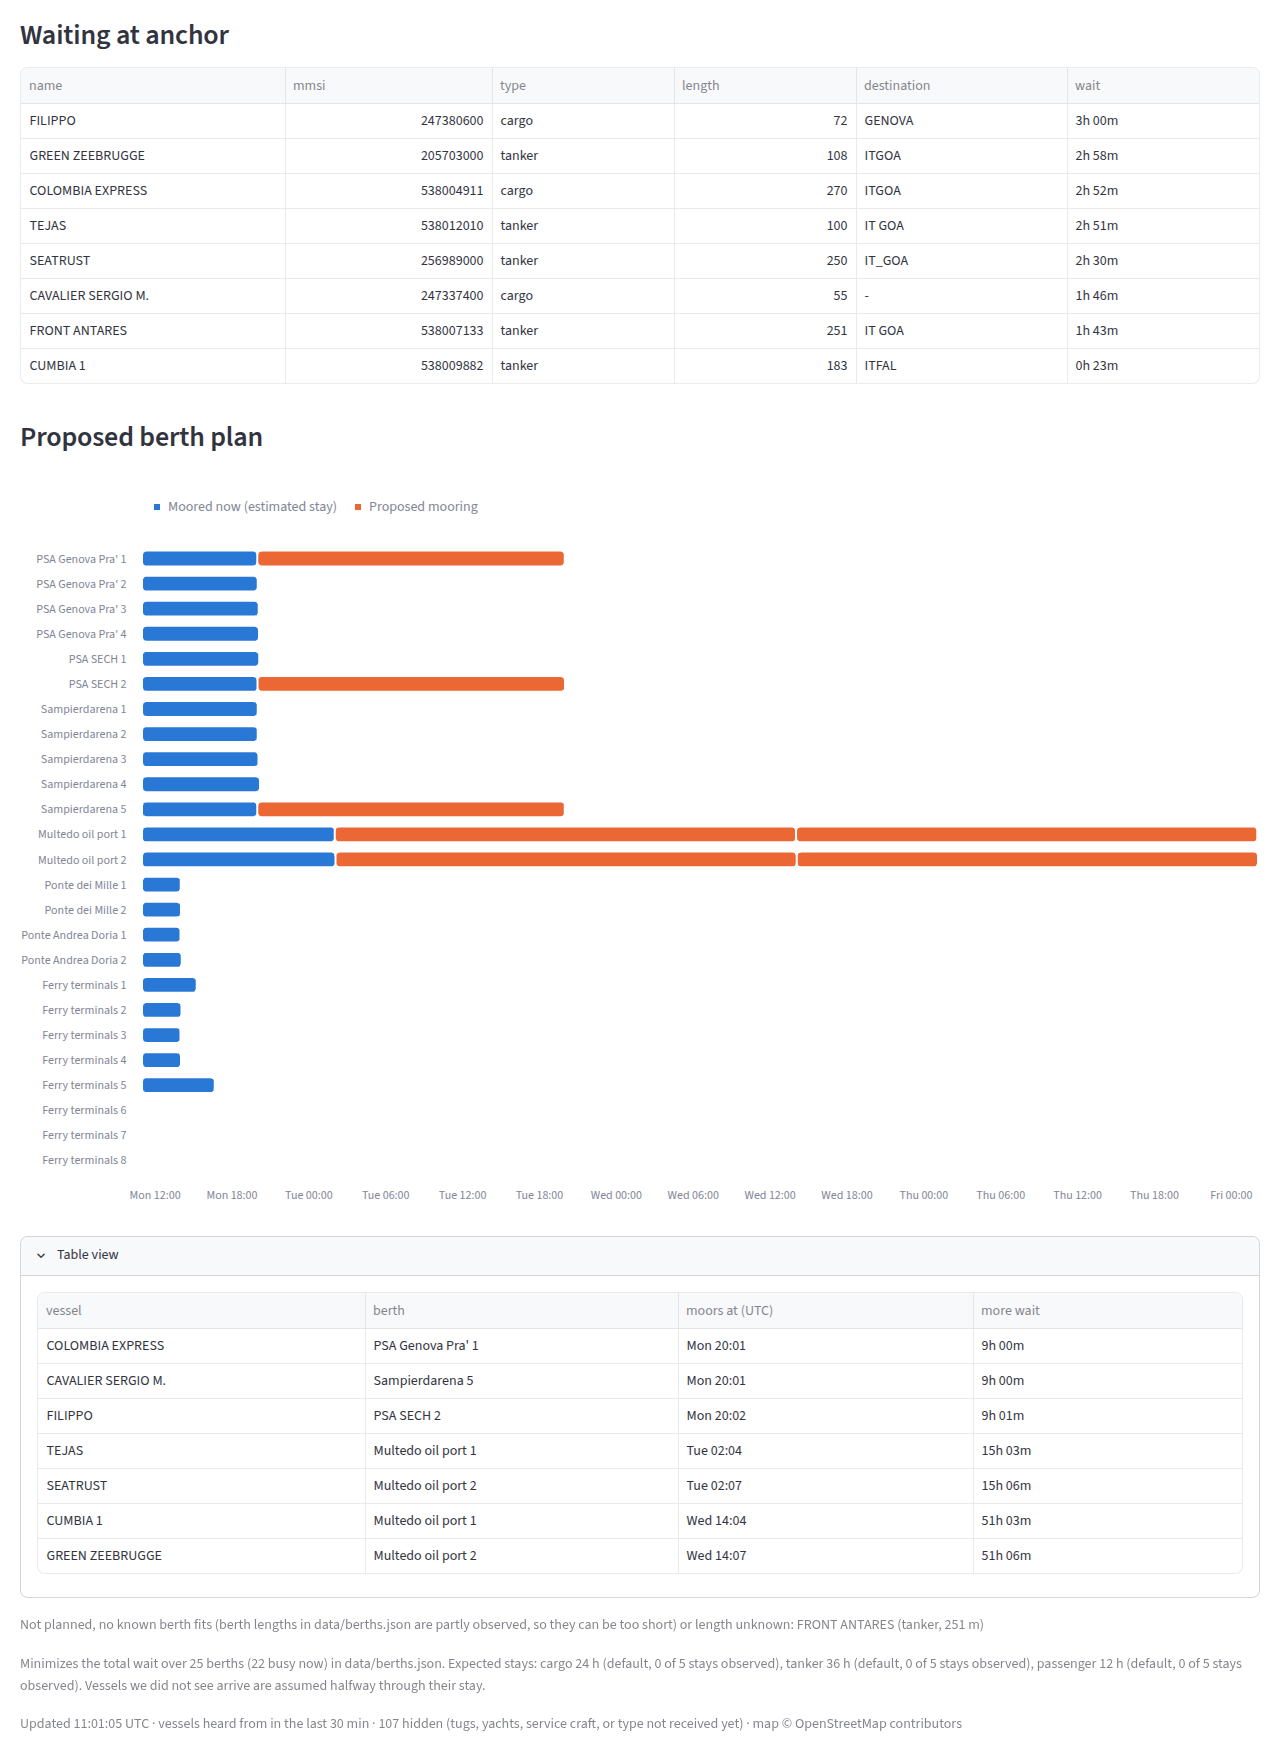
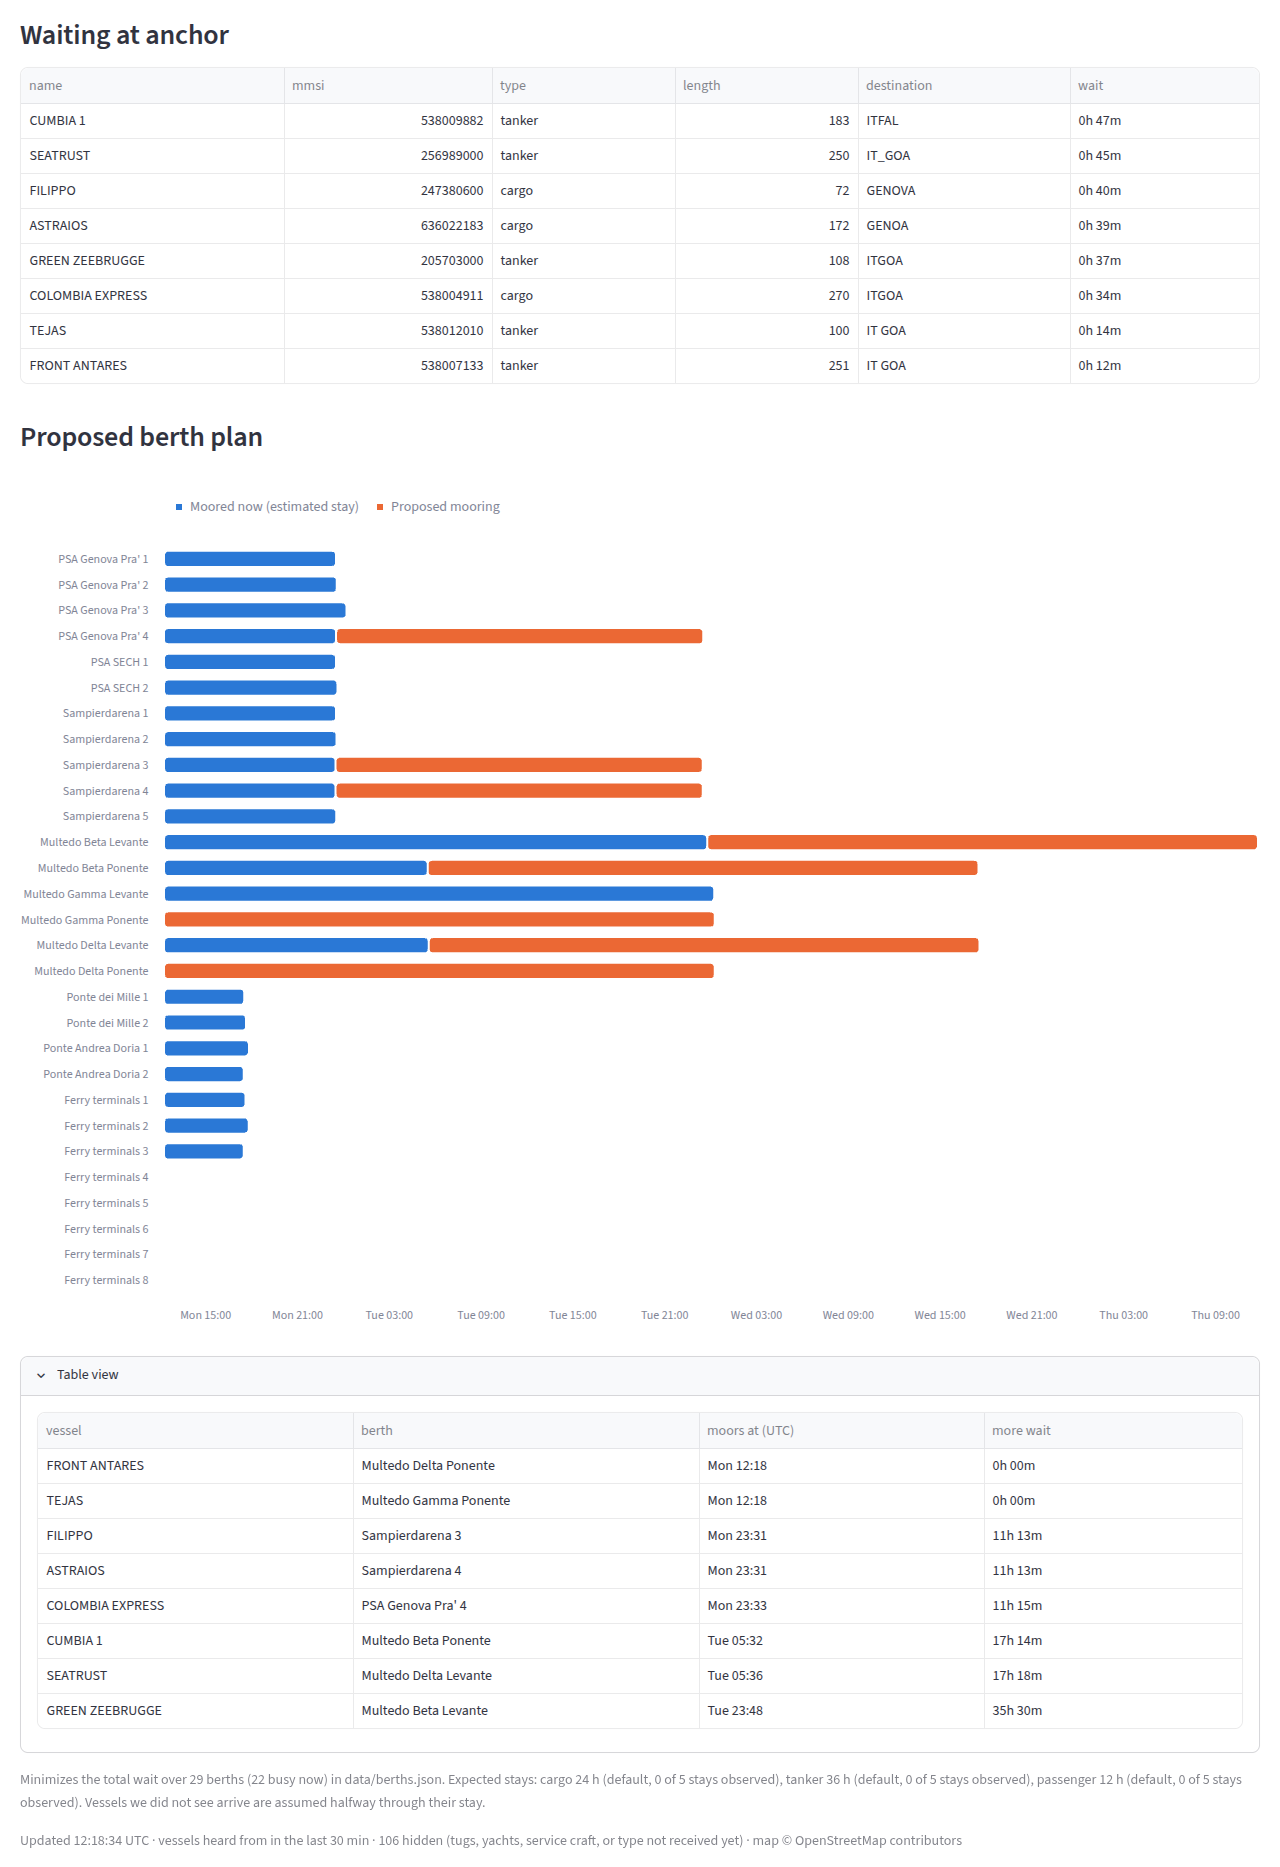
Update berth plan with additional tanker berths and enhance README for clarity on berth data sources

diff --git a/README.md b/README.md
@@ -36,7 +36,7 @@ AISStream (WebSocket) ──> ingest.py ──> MongoDB Atlas ──> app.py (St
 - **Classification** (`src/classify.py`): a vessel is *underway* above 0.5 knots; otherwise it is *at berth* when within 100 m of the coastline, whose OpenStreetMap trace follows the quay edges in Genoa, and *at anchor* when further out. The AIS ship type separates commercial traffic (cargo, tanker, passenger) from tugs, pilot boats and yachts: during the 2026 Genoa Boat Show dozens of 50-90 m superyachts were moored in port, and length alone could not tell them from cargo ships.
 - **Storage under free-tier limits**: MongoDB Atlas M0 allows 512 MB and 100 operations per second. Positions are sampled to one per vessel per minute, written in batches every 10 seconds, and expire after 7 days through a TTL index. The ingestion logs the used and projected storage (about 70 MB at steady state, measured).
 - **State history**: each vessel's current state is upserted with the time it began, computed inside MongoDB with a pipeline update so that it survives restarts. After a gap in the data the start time is reset and flagged as "not seen", instead of silently counting the gap as waiting time.
-- **Berth plan** (`src/optimize.py`): berths come from `data/berths.json`, 25 berths with their length and accepted vessel categories, each marked as official or observed. Each waiting vessel gets an optional interval on every compatible berth; `NoOverlap` per berth keeps one vessel at a time, including the vessels already moored. Expected stays are measured from complete stays in the history once a category has enough of them, and fall back to per-category defaults until then.
+- **Berth plan** (`src/optimize.py`): berths come from `data/berths.json`, 29 berths with their length and accepted vessel categories, each marked as official or observed. Each waiting vessel gets an optional interval on every compatible berth; `NoOverlap` per berth keeps one vessel at a time, including the vessels already moored. Expected stays are measured from complete stays in the history once a category has enough of them, and fall back to per-category defaults until then.
 
 ## Run it
 
@@ -61,7 +61,7 @@ pytest
 
 ## Known limitations
 
-- **The berth plan is a deterministic model.** No tides, pilotage windows or commercial priorities; berths are one point per terminal area, and some berth counts and lengths are observed rather than official. Observed values can only be lower bounds: the Multedo oil port is modelled with two 250 m berths, so a 251 m tanker currently fits nowhere and is listed as not planned.
+- **The berth plan is a deterministic model.** No tides, drafts, pilotage windows or commercial priorities (a tanker may wait at anchor for a cargo window even with a berth free); berths are one point per terminal area. Berth data is official where published (the six Multedo oil berths, PSA terminals, cruise piers) and observed elsewhere; observed values can only be lower bounds, so a vessel that fits no known berth is listed as not planned rather than dropped.
 - **Stay durations are defaults until enough history exists.** Container and tanker calls last one or two days, so measuring them needs days of uninterrupted collection.
 - **Vessels moored before the ingestion started** are assumed to be halfway through their stay.
 - **Classification is heuristic.** A slow manoeuvring vessel can be misclassified, a vessel waiting near a quay counts as at berth, and AIS coverage has gaps. These corners are marked `ponytail:` in the code, each with its upgrade path.
